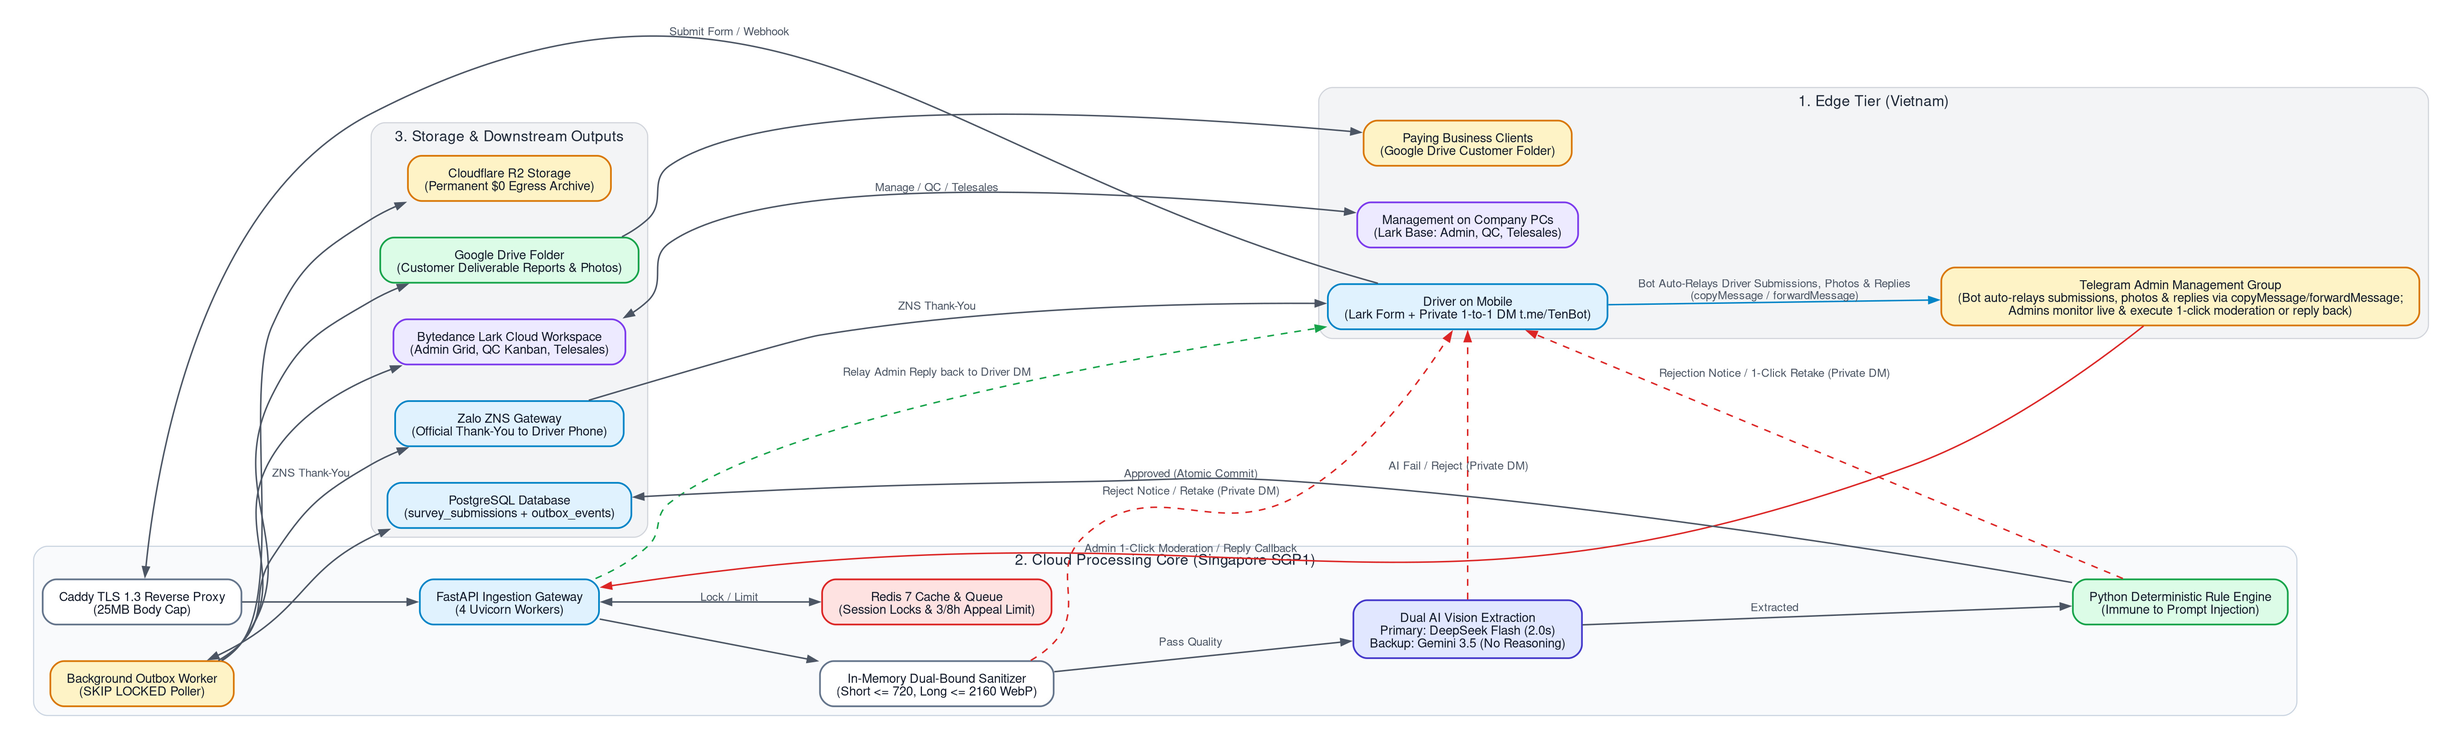
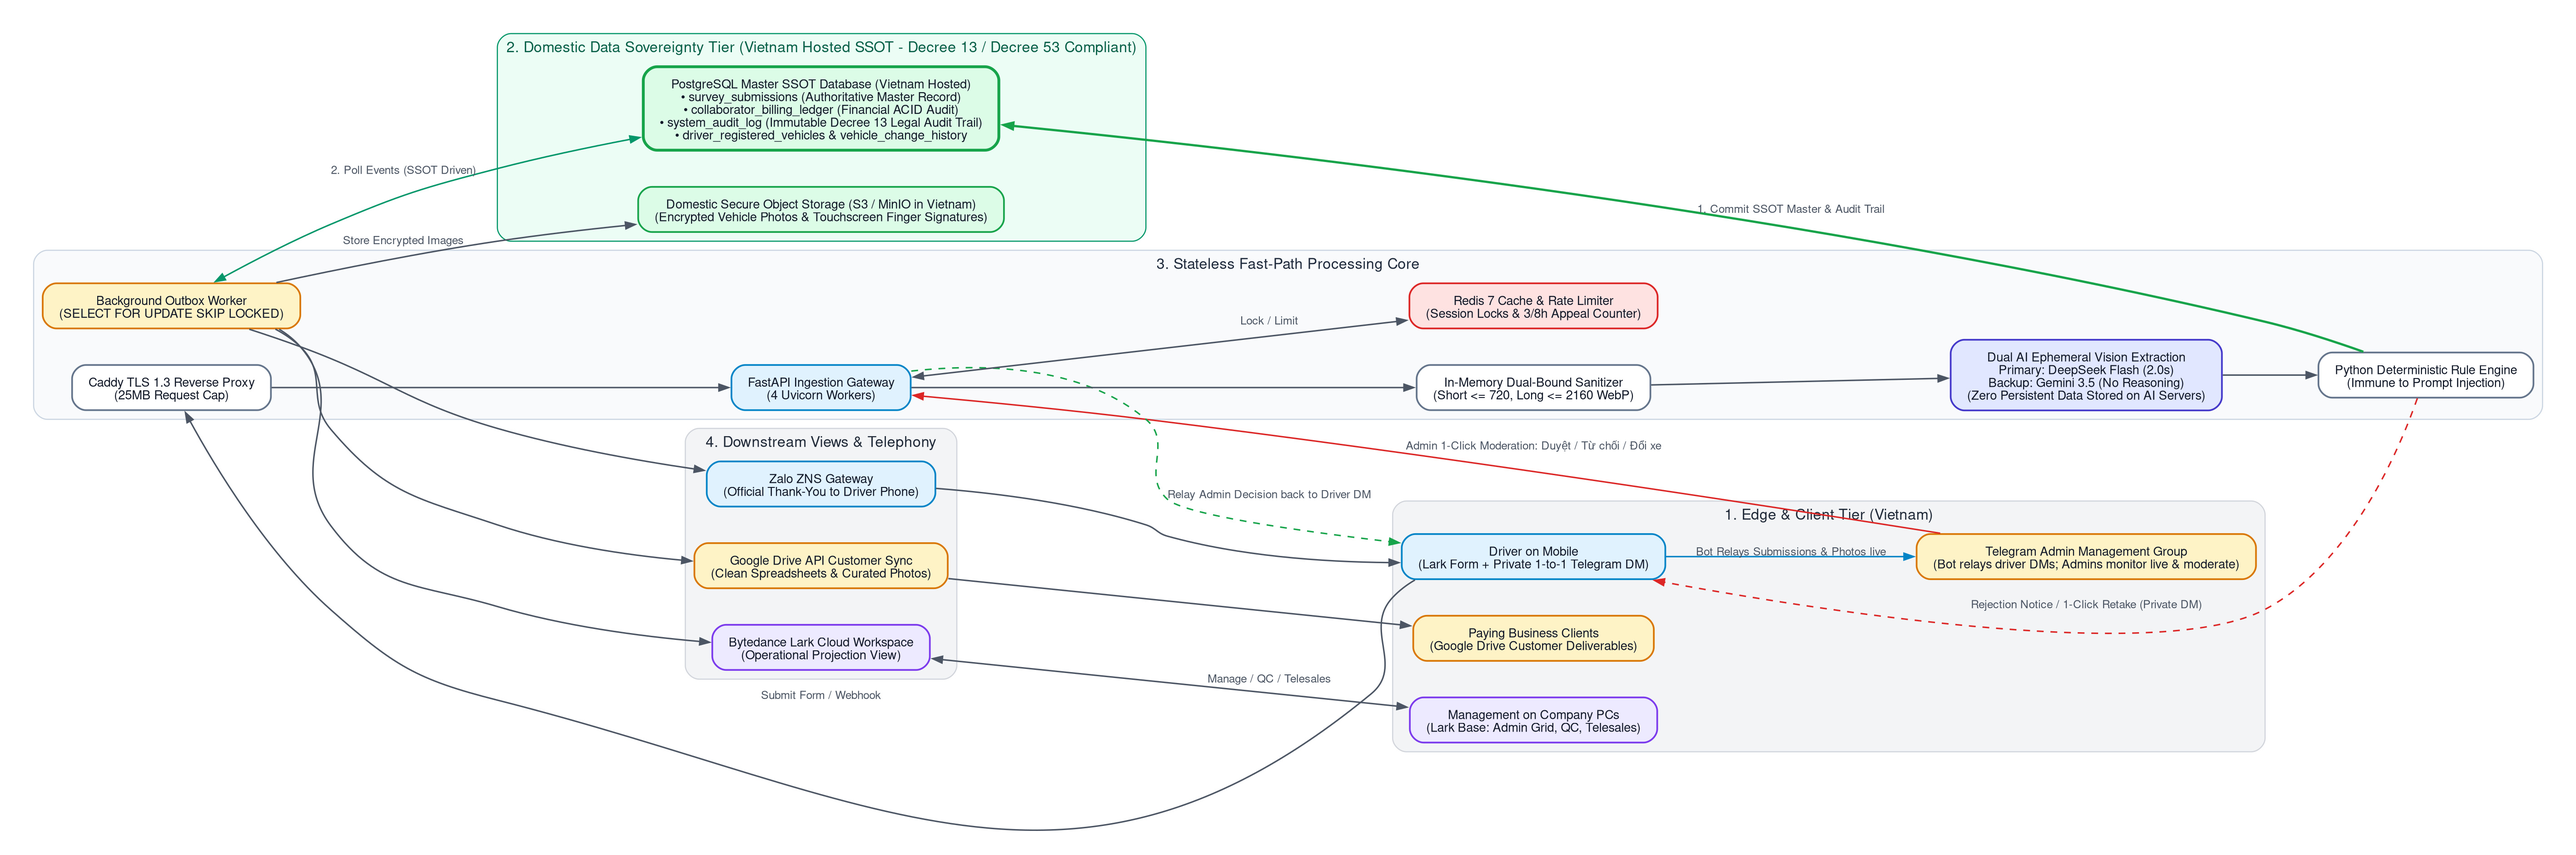
feat(ssot): re-center architecture around domestic PostgreSQL SSOT and add full-spectrum legal audit trail

diff --git a/render_charts.py b/render_charts.py
@@ -40,70 +40,65 @@ digraph G {
     ];
 """
 
-# Chart 1: Abstract Overall Flow
 CHART_1 = COMMON_HEADER + """
     subgraph cluster_edge {
-        label="1. Edge Tier (Vietnam)";
-        style="rounded,filled";
-        fillcolor="#f3f4f6";
-        color="#d1d5db";
-        fontcolor="#1f2937";
+        label="1. Edge & Client Tier (Vietnam)";
+        style="rounded,filled"; fillcolor="#f3f4f6"; color="#d1d5db"; fontcolor="#1f2937";
         
-        driver [label="Driver on Mobile\\n(Lark Form + Private 1-to-1 DM t.me/TenBot)", fillcolor="#e0f2fe", color="#0284c7"];
-        tg_admin_group [label="Telegram Admin Management Group\\n(Bot auto-relays submissions, photos & replies via copyMessage/forwardMessage;\\nAdmins monitor live & execute 1-click moderation or reply back)", fillcolor="#fef3c7", color="#d97706"];
-        staff [label="Management on Company PCs\\n(Lark Base: Admin, QC, Telesales)", fillcolor="#ede9fe", color="#7c3aed"];
-        clients [label="Paying Business Clients\\n(Google Drive Customer Folder)", fillcolor="#fef3c7", color="#d97706"];
+        driver [label="Driver on Mobile\\n(Lark Form + Private 1-to-1 Telegram DM)", fillcolor="#e0f2fe", color="#0284c7"];
+        tg_admin_group [label="Telegram Admin Management Group\\n(Bot relays driver DMs; Admins monitor live & moderate)", fillcolor="#fef3c7", color="#d97706"];
+        staff [label="Management on Company PCs\\n(Lark Base: Admin Grid, QC, Telesales)", fillcolor="#ede9fe", color="#7c3aed"];
+        clients [label="Paying Business Clients\\n(Google Drive Customer Deliverables)", fillcolor="#fef3c7", color="#d97706"];
     }
 
-    subgraph cluster_cloud {
-        label="2. Cloud Processing Core (Singapore SGP1)";
-        style="rounded,filled";
-        fillcolor="#f8fafc";
-        color="#cbd5e1";
-        fontcolor="#1e293b";
+    subgraph cluster_domestic_ssot {
+        label="2. Domestic Data Sovereignty Tier (Vietnam Hosted SSOT - Decree 13 / Decree 53 Compliant)";
+        style="rounded,filled"; fillcolor="#ecfdf5"; color="#059669"; fontcolor="#065f46";
 
-        caddy [label="Caddy TLS 1.3 Reverse Proxy\\n(25MB Body Cap)", fillcolor="#ffffff", color="#64748b"];
+        postgres [label="PostgreSQL Master SSOT Database (Vietnam Hosted)\\n• survey_submissions (Authoritative Master Record)\\n• collaborator_billing_ledger (Financial ACID Audit)\\n• system_audit_log (Immutable Decree 13 Legal Audit Trail)\\n• driver_registered_vehicles & vehicle_change_history", fillcolor="#dcfce7", color="#16a34a", penwidth=2.5];
+        local_s3 [label="Domestic Secure Object Storage (S3 / MinIO in Vietnam)\\n(Encrypted Vehicle Photos & Touchscreen Finger Signatures)", fillcolor="#dcfce7", color="#16a34a"];
+    }
+
+    subgraph cluster_stateless_core {
+        label="3. Stateless Fast-Path Processing Core";
+        style="rounded,filled"; fillcolor="#f8fafc"; color="#cbd5e1"; fontcolor="#1e293b";
+
+        caddy [label="Caddy TLS 1.3 Reverse Proxy\\n(25MB Request Cap)", fillcolor="#ffffff", color="#64748b"];
         fastapi [label="FastAPI Ingestion Gateway\\n(4 Uvicorn Workers)", fillcolor="#e0f2fe", color="#0284c7"];
-        redis [label="Redis 7 Cache & Queue\\n(Session Locks & 3/8h Appeal Limit)", fillcolor="#fee2e2", color="#dc2626"];
+        redis [label="Redis 7 Cache & Rate Limiter\\n(Session Locks & 3/8h Appeal Counter)", fillcolor="#fee2e2", color="#dc2626"];
         sanitizer [label="In-Memory Dual-Bound Sanitizer\\n(Short <= 720, Long <= 2160 WebP)", fillcolor="#ffffff", color="#64748b"];
-        dual_ai [label="Dual AI Vision Extraction\\nPrimary: DeepSeek Flash (2.0s)\\nBackup: Gemini 3.5 (No Reasoning)", fillcolor="#e0e7ff", color="#4338ca"];
-        rules [label="Python Deterministic Rule Engine\\n(Immune to Prompt Injection)", fillcolor="#dcfce7", color="#16a34a"];
-        outbox_worker [label="Background Outbox Worker\\n(SKIP LOCKED Poller)", fillcolor="#fef3c7", color="#d97706"];
+        dual_ai [label="Dual AI Ephemeral Vision Extraction\\nPrimary: DeepSeek Flash (2.0s)\\nBackup: Gemini 3.5 (No Reasoning)\\n(Zero Persistent Data Stored on AI Servers)", fillcolor="#e0e7ff", color="#4338ca"];
+        rules [label="Python Deterministic Rule Engine\\n(Immune to Prompt Injection)", fillcolor="#ffffff", color="#64748b"];
+        outbox_worker [label="Background Outbox Worker\\n(SELECT FOR UPDATE SKIP LOCKED)", fillcolor="#fef3c7", color="#d97706"];
     }
 
-    subgraph cluster_storage {
-        label="3. Storage & Downstream Outputs";
-        style="rounded,filled";
-        fillcolor="#f3f4f6";
-        color="#d1d5db";
-        fontcolor="#1f2937";
+    subgraph cluster_downstream_projections {
+        label="4. Downstream Views & Telephony";
+        style="rounded,filled"; fillcolor="#f3f4f6"; color="#d1d5db"; fontcolor="#1f2937";
 
-        postgres [label="PostgreSQL Database\\n(survey_submissions + outbox_events)", fillcolor="#e0f2fe", color="#0284c7"];
-        r2 [label="Cloudflare R2 Storage\\n(Permanent $0 Egress Archive)", fillcolor="#fef3c7", color="#d97706"];
-        gdrive [label="Google Drive Folder\\n(Customer Deliverable Reports & Photos)", fillcolor="#dcfce7", color="#16a34a"];
-        lark_cloud [label="Bytedance Lark Cloud Workspace\\n(Admin Grid, QC Kanban, Telesales)", fillcolor="#ede9fe", color="#7c3aed"];
+        gdrive [label="Google Drive API Customer Sync\\n(Clean Spreadsheets & Curated Photos)", fillcolor="#fef3c7", color="#d97706"];
+        lark_cloud [label="Bytedance Lark Cloud Workspace\\n(Operational Projection View)", fillcolor="#ede9fe", color="#7c3aed"];
         zns [label="Zalo ZNS Gateway\\n(Official Thank-You to Driver Phone)", fillcolor="#e0f2fe", color="#0284c7"];
     }
 
     driver -> caddy [label="Submit Form / Webhook"];
     caddy -> fastapi;
     fastapi -> redis [dir=both, label="Lock / Limit"];
-    fastapi -> sanitizer;
-    sanitizer -> dual_ai [label="Pass Quality"];
-    sanitizer -> driver [label="Reject Notice / Retake (Private DM)", style=dashed, color="#dc2626"];
-    dual_ai -> rules [label="Extracted"];
-    dual_ai -> driver [label="AI Fail / Reject (Private DM)", style=dashed, color="#dc2626"];
-    rules -> postgres [label="Approved (Atomic Commit)"];
+    fastapi -> sanitizer -> dual_ai -> rules;
+    
+    rules -> postgres [label="1. Commit SSOT Master & Audit Trail", color="#16a34a", penwidth=2.0];
     rules -> driver [label="Rejection Notice / 1-Click Retake (Private DM)", style=dashed, color="#dc2626"];
-    driver -> tg_admin_group [label="Bot Auto-Relays Driver Submissions, Photos & Replies\\n(copyMessage / forwardMessage)", color="#0284c7"];
-    tg_admin_group -> fastapi [label="Admin 1-Click Moderation / Reply Callback", color="#dc2626"];
-    fastapi -> driver [label="Relay Admin Reply back to Driver DM", style=dashed, color="#16a34a"];
-    postgres -> outbox_worker [dir=both];
-    outbox_worker -> r2;
+    
+    driver -> tg_admin_group [label="Bot Relays Submissions & Photos live", color="#0284c7"];
+    tg_admin_group -> fastapi [label="Admin 1-Click Moderation: Duyệt / Từ chối / Đổi xe", color="#dc2626"];
+    fastapi -> driver [label="Relay Admin Decision back to Driver DM", style=dashed, color="#16a34a"];
+    
+    postgres -> outbox_worker [dir=both, label="2. Poll Events (SSOT Driven)", color="#059669"];
+    outbox_worker -> local_s3 [label="Store Encrypted Images"];
     outbox_worker -> gdrive -> clients;
     outbox_worker -> lark_cloud;
     lark_cloud -> staff [dir=both, label="Manage / QC / Telesales"];
-    outbox_worker -> zns -> driver [label="ZNS Thank-You"];
+    outbox_worker -> zns -> driver;
 }
 """
 
@@ -287,38 +282,41 @@ digraph G {
 }
 """
 
-# Chart 5: Component 4 Persistence & Delivery
+# Chart 5: Component 4 Persistence & Delivery (SSOT Hub Architecture)
 CHART_5 = COMMON_HEADER + """
-    subgraph cluster_persistence {
-        label="Component 4: Persistence, Transactional Outbox & Delivery";
-        style="rounded,filled";
-        fillcolor="#f8fafc";
-        color="#cbd5e1";
+    subgraph cluster_ssot_hub {
+        label="Component 4: Domestic PostgreSQL SSOT & Legal Audit Engine (Vietnam Hosted)";
+        style="rounded,filled"; fillcolor="#ecfdf5"; color="#059669"; fontcolor="#065f46";
 
-        survey_event_in [label="Survey Event\\n(Approved or Rejected)", fillcolor="#e0f2fe", color="#0284c7"];
+        survey_event_in [label="Survey Event (Approved or Rejected)", fillcolor="#e0f2fe", color="#0284c7"];
         sql_tx [label="PostgreSQL Atomic Transaction\\n(BEGIN ... COMMIT)", fillcolor="#ffffff", color="#64748b"];
-        sub_table [label="INSERT survey_submissions\\n(status: APPROVED or REJECTED)", fillcolor="#e0f2fe", color="#0284c7"];
-        outbox_table [label="INSERT outbox_events\\n(status = PENDING for Approved)", fillcolor="#fee2e2", color="#dc2626"];
-        tg_push [label="Telegram Bot Response\\n(Pushed directly to Driver DM:\\nApproval Confirmation or Rejection + Retake Link)", fillcolor="#e0f2fe", color="#0284c7"];
+        sub_table [label="INSERT survey_submissions (SSOT Master)\\n• Status: APPROVED or REJECTED\\n• Cryptographic Seal: audit_seal_hash (SHA-256)\\n• Sensitive Data: GPS Coordinates + Touchscreen Signature", fillcolor="#dcfce7", color="#16a34a", penwidth=2.0];
+        audit_log [label="INSERT system_audit_log (Immutable Audit Trail)\\n• Timestamp, Component, Action, Actor ID, IP\\n• Full Factual Trace for Decree 13 / A05 Inspection", fillcolor="#dcfce7", color="#16a34a", penwidth=2.0];
+        outbox_table [label="INSERT outbox_events\\n(status = PENDING for Approved Events)", fillcolor="#fee2e2", color="#dc2626"];
+        tg_push [label="Telegram Bot API Push\\n(Dispatches Instant Notice to Driver DM)", fillcolor="#e0f2fe", color="#0284c7"];
+    }
+
+    subgraph cluster_downstream_dispatch {
+        label="Downstream Consumers (Projected from PostgreSQL SSOT)";
+        style="rounded,filled"; fillcolor="#f8fafc"; color="#cbd5e1";
 
         poller [label="Background Outbox Worker\\n(SELECT FOR UPDATE SKIP LOCKED)", fillcolor="#fef3c7", color="#d97706"];
-        r2_upload [label="Cloudflare R2 Object Storage\\n(Upload WebP, $0 Egress)", fillcolor="#ffffff", color="#64748b"];
-        ledger_credit [label="Credit Payout to Ledger\\ncollaborator_billing_ledger", fillcolor="#dcfce7", color="#16a34a"];
-
-        gdrive_sync [label="Google Drive API Delivery\\n(Service Account Upload)", fillcolor="#e0e7ff", color="#4338ca"];
-        gdrive_folder [label="Customer Delivery Folder\\n(YYYY-MM-DD/Client_Spreadsheet.xlsx)", fillcolor="#dcfce7", color="#16a34a"];
-
-        lark_sync [label="Lark Base Bi-directional Sync\\n(Updates Management Dashboard)", fillcolor="#ede9fe", color="#7c3aed"];
+        s3_upload [label="Domestic Encrypted S3 / MinIO\\n(Permanent Vehicle Photo Storage in VN)", fillcolor="#ffffff", color="#64748b"];
+        ledger_credit [label="Financial Payout Credit\\ncollaborator_billing_ledger (ACID Payout Audit)", fillcolor="#dcfce7", color="#16a34a"];
+        gdrive_sync [label="Google Drive API Customer Delivery\\n(Curated Client Spreadsheets & Photos)", fillcolor="#fef3c7", color="#d97706"];
+        lark_sync [label="Lark Base Management Sync\\n(Updates Admin Grid, QC Kanban, Telesales)", fillcolor="#ede9fe", color="#7c3aed"];
         zns_notify [label="Zalo ZNS Official Thank-You\\n(Delivered to Driver Phone)", fillcolor="#e0f2fe", color="#0284c7"];
     }
+
     survey_event_in -> sql_tx;
     sql_tx -> sub_table;
-    sql_tx -> outbox_table [label="If Approved"];
-    sub_table -> tg_push [label="Direct DM Push to Driver\\n(Approved or Rejected)"];
-    outbox_table -> poller [label="Poll Events"];
-    poller -> r2_upload;
+    sql_tx -> audit_log;
+    sql_tx -> outbox_table;
+    sub_table -> tg_push [label="Committed State -> Immediate Push"];
+    outbox_table -> poller [label="Poll Events (SSOT Driven)"];
+    poller -> s3_upload;
     poller -> ledger_credit;
-    poller -> gdrive_sync -> gdrive_folder;
+    poller -> gdrive_sync;
     poller -> lark_sync;
     poller -> zns_notify;
 }
